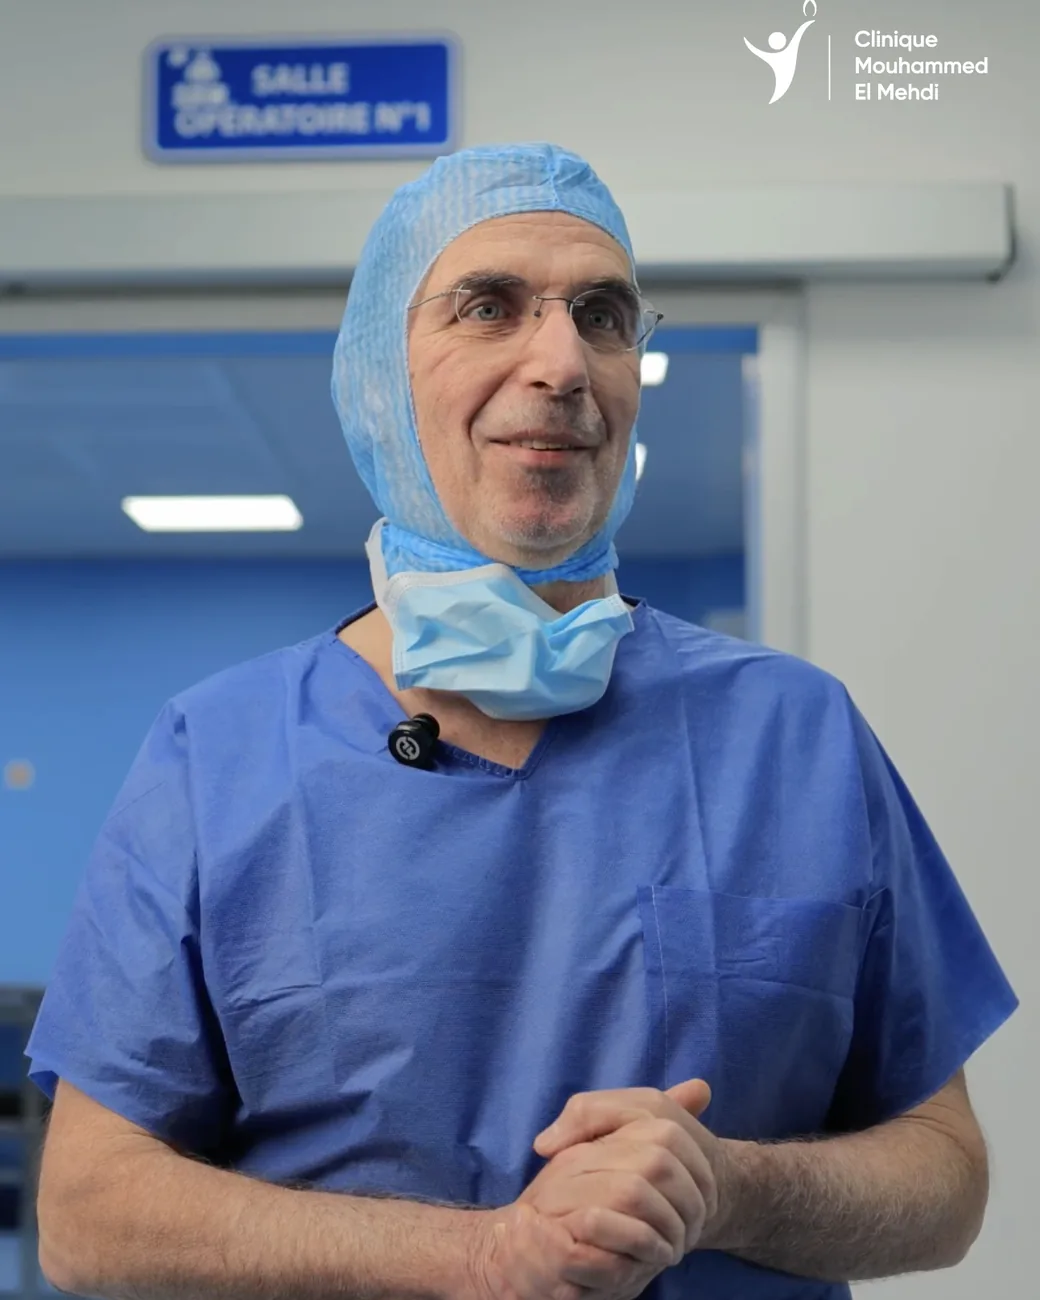
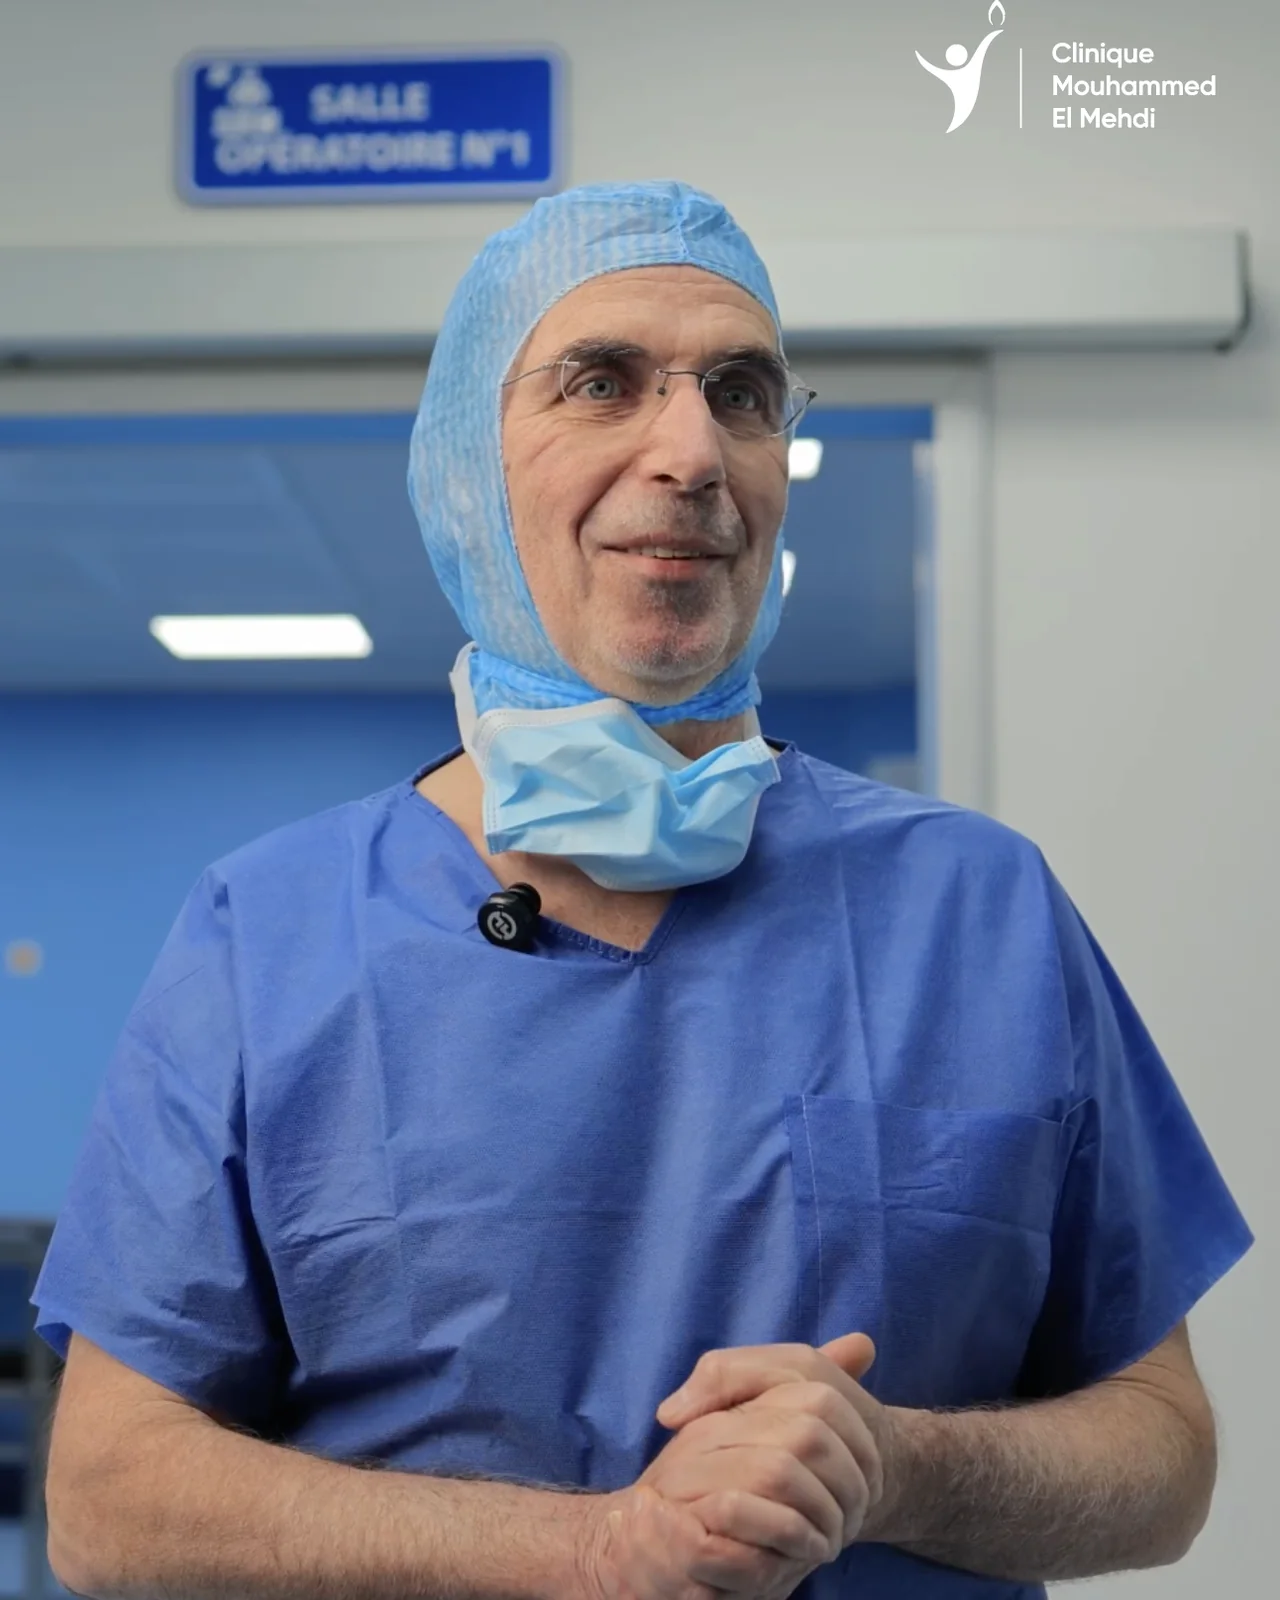
Give the commissions band a picture worth looking at
The panel was 520x650 beside a text column that took the larger share,
which read as a list with a thumbnail next to it. The picture is the
argument in that band, so it now takes the wider column and runs out
past the wrap into the page gutter, the same device the case-study
reels above it use: 640x800 at 1440, level at the bottom with the five
rows beside it.

586px of column plus the bleed is 640px, exactly 1280px of pixel at
DPR 2 - the width of the narrowest source file - so the five images are
re-exported at 1280x1600 from the originals rather than upscaled from
the old 1040x1300 cut. Same crops, 449KB for the set, 0.023-0.062 B/px.

Stacked under 900px there is no gutter to bleed into and a 4:5 frame
the full width of a phone runs taller than the screen, so the frame
turns 5:4 there - still half again the height of the 16:10 slot it
replaces.

Measured: no horizontal overflow from 320 to 2560, 32px of clearance
at the screen edge from 1024 up, contrast 0 failures on six pages,
and the row-to-panel wiring still lands on the right image from hover,
focus and click.

Claude-Session: https://claude.ai/code/session_01YFVgKLYjoLL86S4jtZWEa6

diff --git a/index.html b/index.html
@@ -910,11 +910,11 @@
         </li>
       </ul>
       <div class="comm-panel" aria-hidden="true">
-        <img class="on" src="assets/work/comm-new-range.webp" alt="Laformul — the range as a printed catalogue" width="1040" height="1300" decoding="async" loading="lazy" data-index="0">
-        <img class="" src="assets/work/comm-system-repair.webp" alt="Boosty — the mark before and after the rebuild" width="1040" height="1300" decoding="async" loading="lazy" data-index="1">
-        <img class="" src="assets/work/comm-sub-brand.webp" alt="Lwiza by Laformul — the sub-brand" width="1040" height="1300" decoding="async" loading="lazy" data-index="2">
-        <img class="" src="assets/work/comm-campaign.webp" alt="Clinique Mouhammed El Mehdi — film" width="1040" height="1300" decoding="async" loading="lazy" data-index="3">
-        <img class="" src="assets/work/comm-production.webp" alt="Xyline for Evolab — dieline, dimensions and Pantones" width="1040" height="1300" decoding="async" loading="lazy" data-index="4">
+        <img class="on" src="assets/work/comm-new-range.webp" alt="Laformul — the range as a printed catalogue" width="1280" height="1600" decoding="async" loading="lazy" data-index="0">
+        <img class="" src="assets/work/comm-system-repair.webp" alt="Boosty — the mark before and after the rebuild" width="1280" height="1600" decoding="async" loading="lazy" data-index="1">
+        <img class="" src="assets/work/comm-sub-brand.webp" alt="Lwiza by Laformul — the sub-brand" width="1280" height="1600" decoding="async" loading="lazy" data-index="2">
+        <img class="" src="assets/work/comm-campaign.webp" alt="Clinique Mouhammed El Mehdi — film" width="1280" height="1600" decoding="async" loading="lazy" data-index="3">
+        <img class="" src="assets/work/comm-production.webp" alt="Xyline for Evolab — dieline, dimensions and Pantones" width="1280" height="1600" decoding="async" loading="lazy" data-index="4">
       </div>
     </div>
   </div>

diff --git a/assets/site.css b/assets/site.css
@@ -1182,12 +1182,19 @@ a{color:inherit;}
    -------------------------------------------------------------------------- */
 .comm{
   display:grid;
-  grid-template-columns:minmax(0,1.15fr) minmax(0,min(38vw,520px));
-  gap:clamp(30px,5vw,72px);
+  /* The panel carries the band — the list is a caption for it, not the other
+     way round. So the picture column takes the larger share and, like the
+     case-study reels above it, runs out past the wrap into the page gutter.
+     586px of column plus the bleed lands it on 640px at 1440, which is
+     exactly 1280px of pixel at DPR 2 — the width of the narrowest source
+     file, so nothing here is ever upscaled. */
+  grid-template-columns:minmax(0,1fr) minmax(0,min(42vw,586px));
+  --bleed:clamp(0px, calc(var(--edge) - 32px), 64px);
+  gap:clamp(30px,4vw,64px);
   align-items:start;
   margin-top:clamp(26px,4vw,48px);
 }
-@media (max-width:900px){ .comm{grid-template-columns:1fr;} }
+@media (max-width:900px){ .comm{grid-template-columns:1fr; --bleed:0px;} }
 
 .comm-rows{list-style:none; margin:0; padding:0; border-top:1px solid var(--line);}
 .comm-row{border-bottom:1px solid var(--line);}
@@ -1242,8 +1249,15 @@ a{color:inherit;}
   overflow:hidden;
   border-radius:2px;
   background:rgba(10,10,11,.06);
+  /* Negative margin rather than a wider column: the item is stretched to its
+     grid area, so this grows the picture toward the screen edge without
+     moving the column boundary the list is set against. */
+  margin-right:calc(-1 * var(--bleed));
 }
-@media (max-width:900px){ .comm-panel{aspect-ratio:16 / 10;} }
+/* Stacked there is no gutter to run into, and a 4:5 frame the full width of
+   a phone is taller than the screen. Wider and squarer, but still bigger
+   than the 16:10 slot it replaces. */
+@media (max-width:900px){ .comm-panel{aspect-ratio:5 / 4; margin-right:0;} }
 .comm-panel img{
   position:absolute; inset:0;
   width:100%; height:100%; object-fit:cover;
